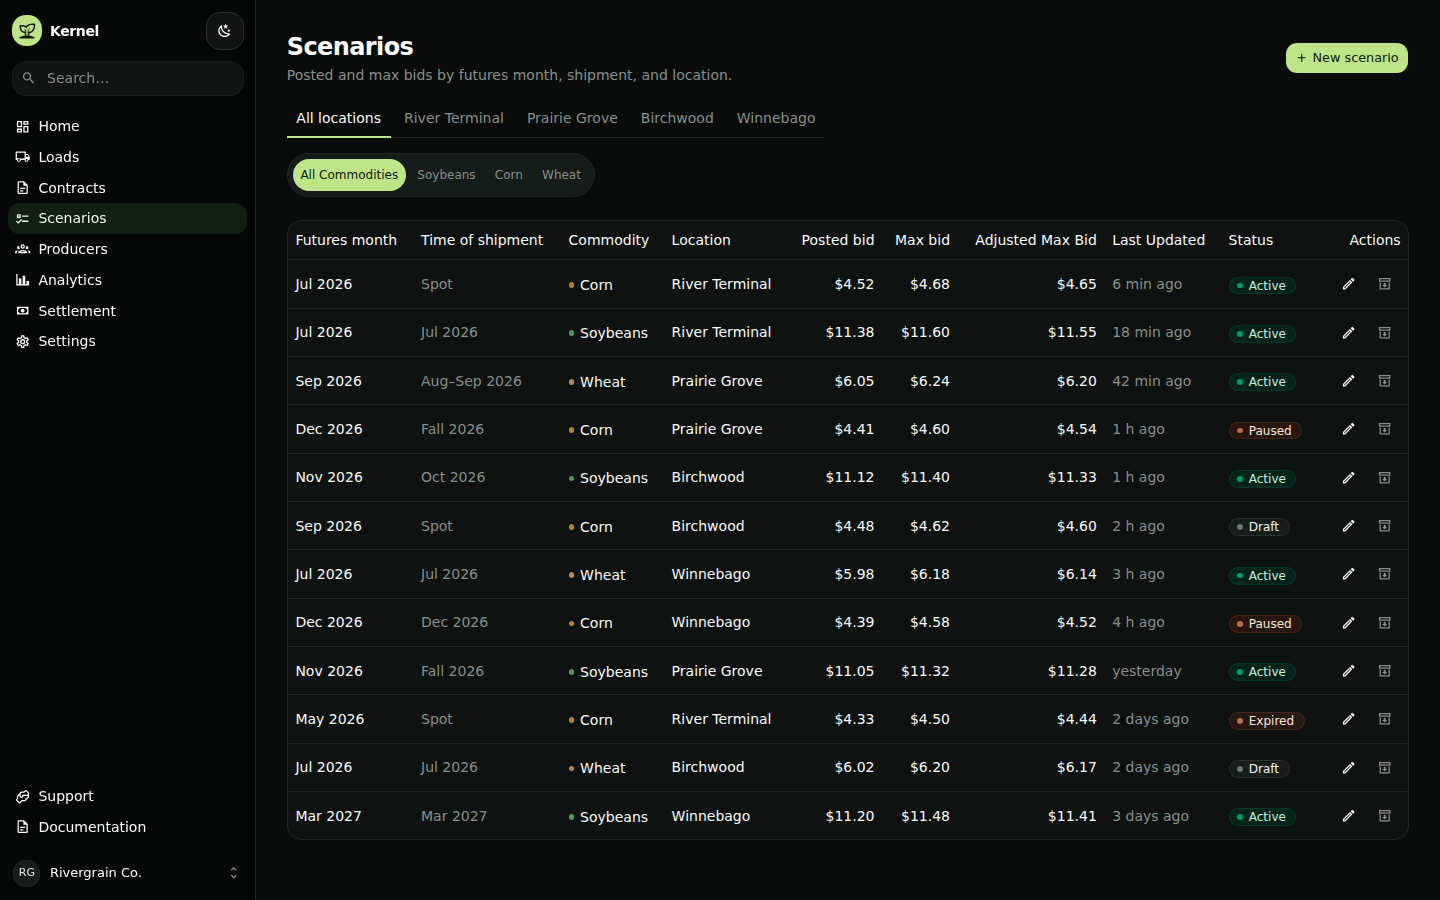
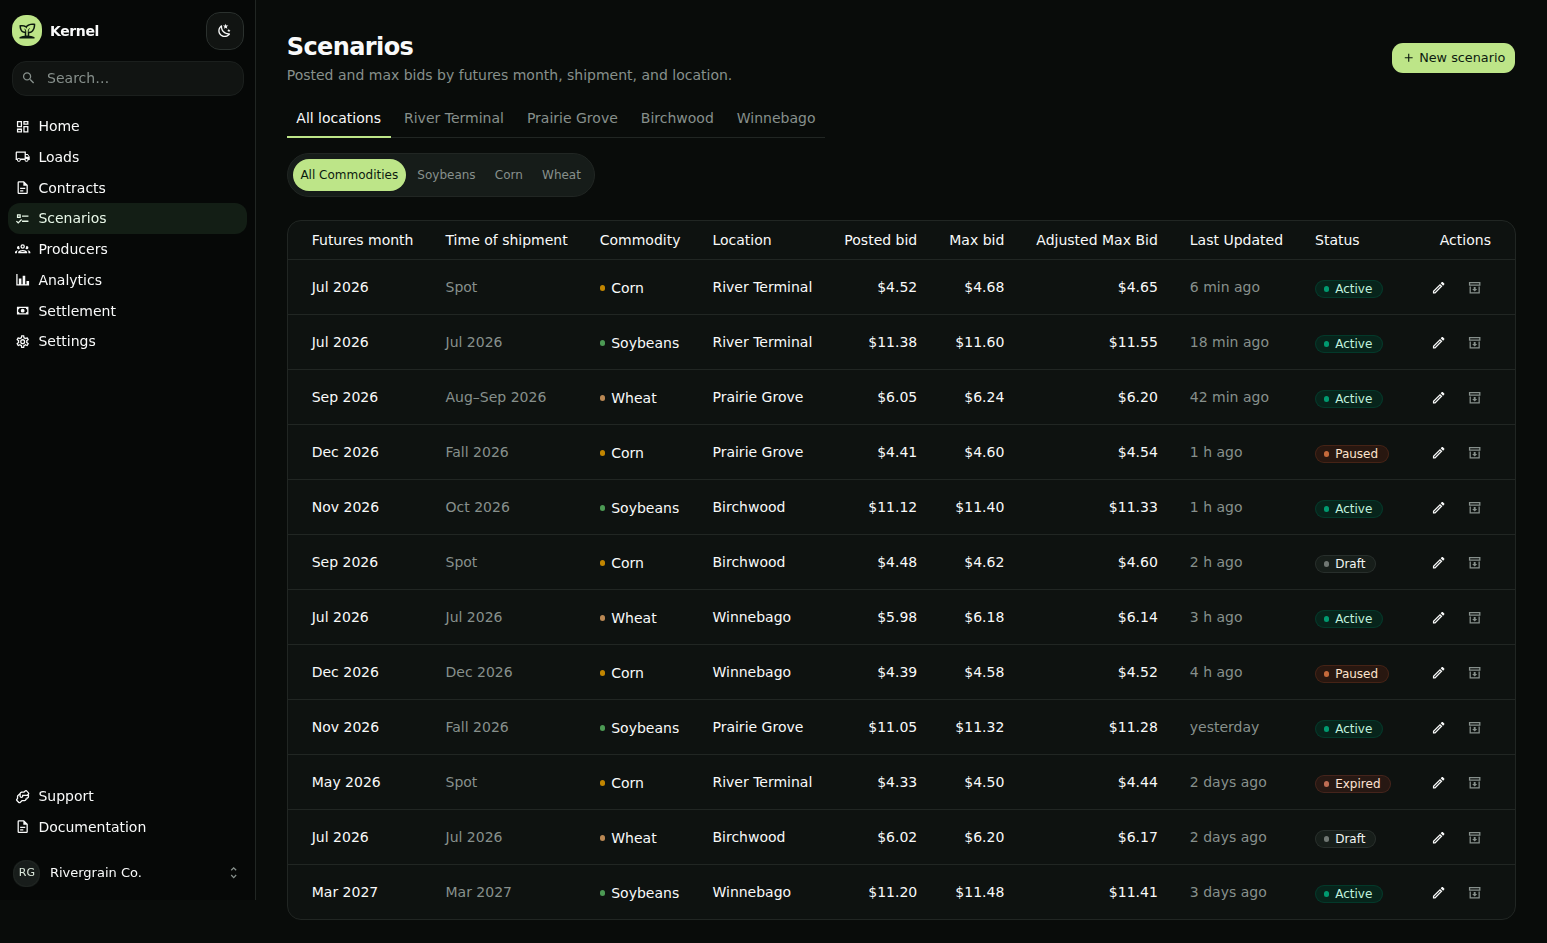
Roomier table padding in the modification layer
DS tables use px-2/p-2, which sits text against the container edge. Add
table cell padding to the insider modification layer — 16px horizontal,
24px inset on first/last cells, more vertical breathing room. Unlayered +
!important so it beats the Tailwind padding utilities (utilities cascade
layer). Applies to every table in the app.

Claude-Session: https://claude.ai/code/session_013x8ctDHrn4DRGQcBdkvgcV

diff --git a/kernel-app/src/insider-layer.css b/kernel-app/src/insider-layer.css
@@ -47,3 +47,25 @@
     color: var(--secondary-foreground);
   }
 }
+
+/* Data tables read roomier than the DS default (px-2/p-2 hugs the edge).
+   Unlayered + !important so these reliably beat the Tailwind padding
+   utilities (which live in the later `utilities` cascade layer). Edge cells
+   get extra inset so text never sits against the container border. */
+[data-slot="table-head"],
+[data-slot="table-cell"] {
+  padding-left: 1rem !important;
+  padding-right: 1rem !important;
+}
+[data-slot="table-cell"] {
+  padding-top: 0.6875rem !important;
+  padding-bottom: 0.6875rem !important;
+}
+[data-slot="table-head"]:first-child,
+[data-slot="table-cell"]:first-child {
+  padding-left: 1.5rem !important;
+}
+[data-slot="table-head"]:last-child,
+[data-slot="table-cell"]:last-child {
+  padding-right: 1.5rem !important;
+}
